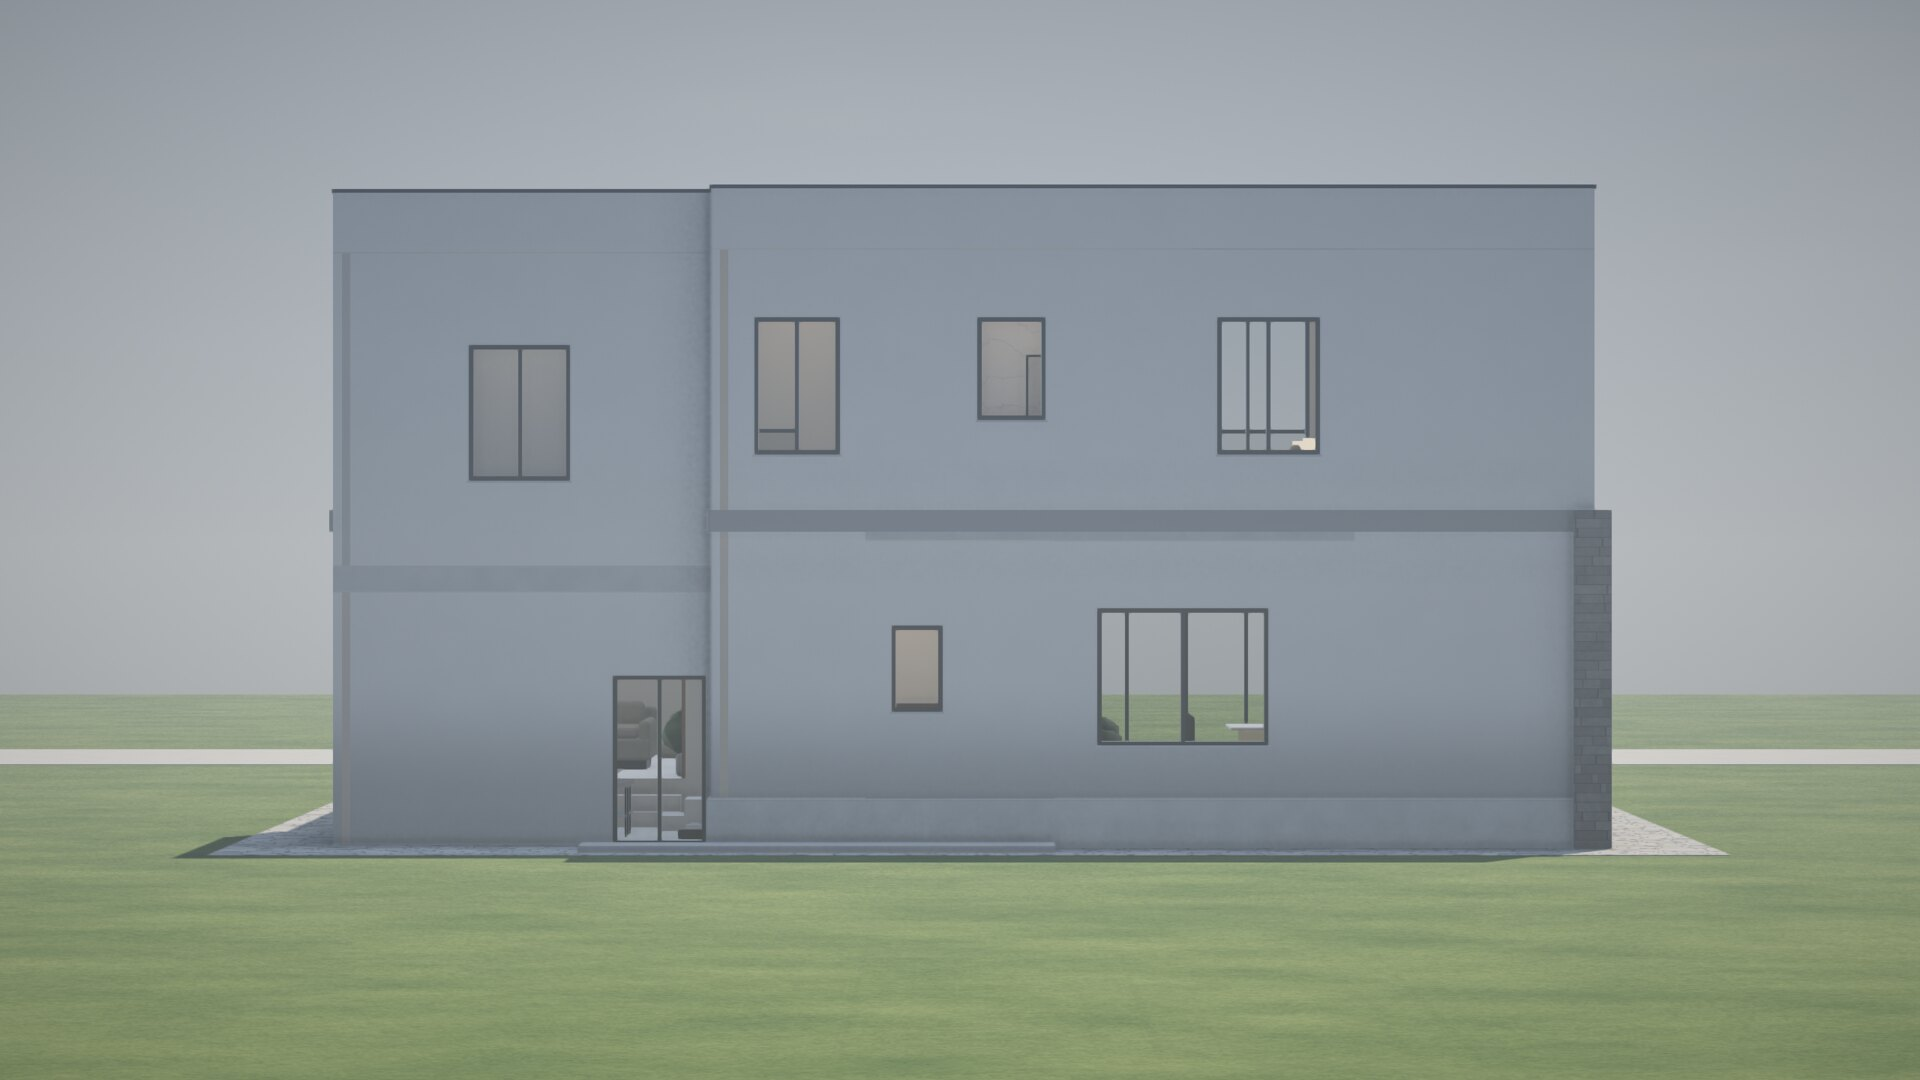
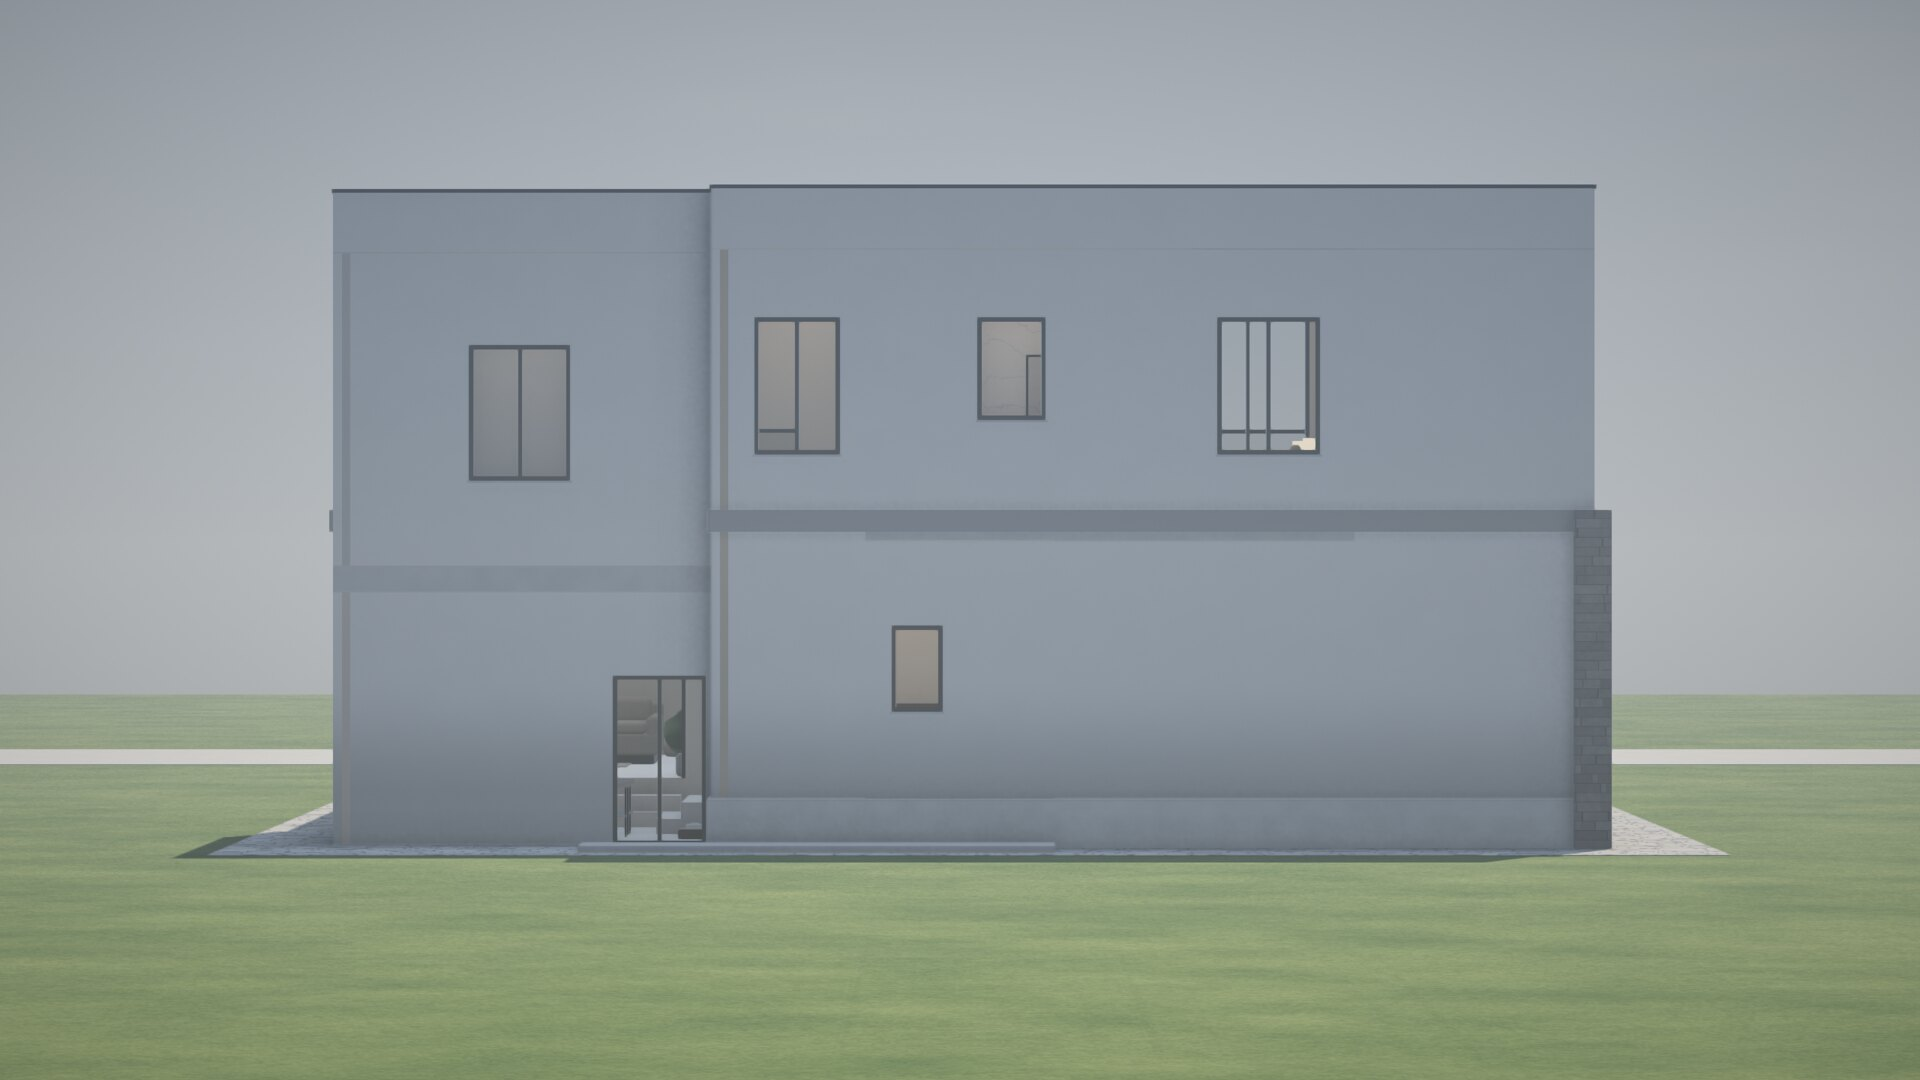
ห้องทานอาหาร: เอาหน้าต่างออก ผนังแผง Greige ทุกด้าน + ภาพแบบภาพถ่าย + งบใหม่
Claude-Session: https://claude.ai/code/session_013i3ffvjiePNLqy5JQb5Coc

Changed region(s): [[0.5625, 0.55, 0.6875, 0.7028], [0.3125, 0.7028, 0.3438, 0.7333]]

diff --git a/ai.html b/ai.html
@@ -15,8 +15,8 @@ details{margin-top:8px;font-size:13.5px;color:#555}details p{line-height:1.5}a.b
 <details><summary>ดูคำสั่ง</summary><p>Transform this 3D render into a photorealistic architectural interior photograph. KEEP EXACTLY the same camera angle, room layout, wall and opening positions, furniture types, positions and proportions, and the same materials and colors — do not add, remove or move any object, do not change the architecture. Only upgrade realism: physically accurate soft natural daylight with global illumination and soft shadows, realistic textures and micro-detail, subtle reflections on glossy surfaces, warm 3000K accent lighting where LED strips exist, natural fabric folds, slight depth of field, shot on a full-frame camera with a 24mm lens at eye level, high-end interior design magazine style, 4K. No people, no text, no watermark. View from the kitchen through a 2.5 m wide plaster arch with a double black metal arch trim (black reveal plus two thin black outline bands) into the stair hall and dining room; two steps up in marble-look porcelain; black linear pendant light over the kitchen island; greige panelled walls; matte black kitchen cabinets with white quartz worktops; indoor plant in a cement pot.</p></details></article><article><h2>5. ครัว</h2><a href="img/03_kitchen.jpg" download="03_kitchen.jpg"><img loading="lazy" src="img/03_kitchen.jpg" alt="ครัว"></a>
 <div class="b"><a class="btn" href="img/03_kitchen.jpg" download="03_kitchen.jpg">บันทึกภาพ</a><button class="btn" data-p="Transform this 3D render into a photorealistic architectural interior photograph. KEEP EXACTLY the same camera angle, room layout, wall and opening positions, furniture types, positions and proportions, and the same materials and colors — do not add, remove or move any object, do not change the architecture. Only upgrade realism: physically accurate soft natural daylight with global illumination and soft shadows, realistic textures and micro-detail, subtle reflections on glossy surfaces, warm 3000K accent lighting where LED strips exist, natural fabric folds, slight depth of field, shot on a full-frame camera with a 24mm lens at eye level, high-end interior design magazine style, 4K. No people, no text, no watermark. Modern kitchen: matte black lower and wall cabinets with warm under-cabinet LED, white quartz worktops, induction hob and stainless steel chimney hood, large white quartz island with waterfall ends and three bar stools with dark wood seats and black legs, black linear suspended LED pendant over the island, stainless steel fridge, light grey stone-look 60x120 floor tiles, warm white walls, black-framed glass sliding door to the garden.">ก๊อปคำสั่ง</button></div>
 <details><summary>ดูคำสั่ง</summary><p>Transform this 3D render into a photorealistic architectural interior photograph. KEEP EXACTLY the same camera angle, room layout, wall and opening positions, furniture types, positions and proportions, and the same materials and colors — do not add, remove or move any object, do not change the architecture. Only upgrade realism: physically accurate soft natural daylight with global illumination and soft shadows, realistic textures and micro-detail, subtle reflections on glossy surfaces, warm 3000K accent lighting where LED strips exist, natural fabric folds, slight depth of field, shot on a full-frame camera with a 24mm lens at eye level, high-end interior design magazine style, 4K. No people, no text, no watermark. Modern kitchen: matte black lower and wall cabinets with warm under-cabinet LED, white quartz worktops, induction hob and stainless steel chimney hood, large white quartz island with waterfall ends and three bar stools with dark wood seats and black legs, black linear suspended LED pendant over the island, stainless steel fridge, light grey stone-look 60x120 floor tiles, warm white walls, black-framed glass sliding door to the garden.</p></details></article><article><h2>6. ห้องทานอาหาร</h2><a href="img/04_dining.jpg" download="04_dining.jpg"><img loading="lazy" src="img/04_dining.jpg" alt="ห้องทานอาหาร"></a>
-<div class="b"><a class="btn" href="img/04_dining.jpg" download="04_dining.jpg">บันทึกภาพ</a><button class="btn" data-p="Transform this 3D render into a photorealistic architectural interior photograph. KEEP EXACTLY the same camera angle, room layout, wall and opening positions, furniture types, positions and proportions, and the same materials and colors — do not add, remove or move any object, do not change the architecture. Only upgrade realism: physically accurate soft natural daylight with global illumination and soft shadows, realistic textures and micro-detail, subtle reflections on glossy surfaces, warm 3000K accent lighting where LED strips exist, natural fabric folds, slight depth of field, shot on a full-frame camera with a 24mm lens at eye level, high-end interior design magazine style, 4K. No people, no text, no watermark. Dining room: white marble-top dining table for six with brass base and black upholstered chairs, brass linear pendant above, dark walnut vertical fluted feature wall, greige panelled walls, black aluminium window with garden view, marble-look porcelain floor, potted indoor plants.">ก๊อปคำสั่ง</button></div>
-<details><summary>ดูคำสั่ง</summary><p>Transform this 3D render into a photorealistic architectural interior photograph. KEEP EXACTLY the same camera angle, room layout, wall and opening positions, furniture types, positions and proportions, and the same materials and colors — do not add, remove or move any object, do not change the architecture. Only upgrade realism: physically accurate soft natural daylight with global illumination and soft shadows, realistic textures and micro-detail, subtle reflections on glossy surfaces, warm 3000K accent lighting where LED strips exist, natural fabric folds, slight depth of field, shot on a full-frame camera with a 24mm lens at eye level, high-end interior design magazine style, 4K. No people, no text, no watermark. Dining room: white marble-top dining table for six with brass base and black upholstered chairs, brass linear pendant above, dark walnut vertical fluted feature wall, greige panelled walls, black aluminium window with garden view, marble-look porcelain floor, potted indoor plants.</p></details></article><article><h2>7. โถงบันได</h2><a href="img/11_stair_hall.jpg" download="11_stair_hall.jpg"><img loading="lazy" src="img/11_stair_hall.jpg" alt="โถงบันได"></a>
+<div class="b"><a class="btn" href="img/04_dining.jpg" download="04_dining.jpg">บันทึกภาพ</a><button class="btn" data-p="Transform this 3D render into a photorealistic architectural interior photograph. KEEP EXACTLY the same camera angle, room layout, wall and opening positions, furniture types, positions and proportions, and the same materials and colors — do not add, remove or move any object, do not change the architecture. Only upgrade realism: physically accurate soft natural daylight with global illumination and soft shadows, realistic textures and micro-detail, subtle reflections on glossy surfaces, warm 3000K accent lighting where LED strips exist, natural fabric folds, slight depth of field, shot on a full-frame camera with a 24mm lens at eye level, high-end interior design magazine style, 4K. No people, no text, no watermark. Dining room: white marble-top dining table for six with brass base and black upholstered chairs, brass linear pendant above, light greige panelled walls on all sides (no window on these walls), dark walnut sideboard with a framed art piece, marble-look porcelain floor, potted indoor plants.">ก๊อปคำสั่ง</button></div>
+<details><summary>ดูคำสั่ง</summary><p>Transform this 3D render into a photorealistic architectural interior photograph. KEEP EXACTLY the same camera angle, room layout, wall and opening positions, furniture types, positions and proportions, and the same materials and colors — do not add, remove or move any object, do not change the architecture. Only upgrade realism: physically accurate soft natural daylight with global illumination and soft shadows, realistic textures and micro-detail, subtle reflections on glossy surfaces, warm 3000K accent lighting where LED strips exist, natural fabric folds, slight depth of field, shot on a full-frame camera with a 24mm lens at eye level, high-end interior design magazine style, 4K. No people, no text, no watermark. Dining room: white marble-top dining table for six with brass base and black upholstered chairs, brass linear pendant above, light greige panelled walls on all sides (no window on these walls), dark walnut sideboard with a framed art piece, marble-look porcelain floor, potted indoor plants.</p></details></article><article><h2>7. โถงบันได</h2><a href="img/11_stair_hall.jpg" download="11_stair_hall.jpg"><img loading="lazy" src="img/11_stair_hall.jpg" alt="โถงบันได"></a>
 <div class="b"><a class="btn" href="img/11_stair_hall.jpg" download="11_stair_hall.jpg">บันทึกภาพ</a><button class="btn" data-p="Transform this 3D render into a photorealistic architectural interior photograph. KEEP EXACTLY the same camera angle, room layout, wall and opening positions, furniture types, positions and proportions, and the same materials and colors — do not add, remove or move any object, do not change the architecture. Only upgrade realism: physically accurate soft natural daylight with global illumination and soft shadows, realistic textures and micro-detail, subtle reflections on glossy surfaces, warm 3000K accent lighting where LED strips exist, natural fabric folds, slight depth of field, shot on a full-frame camera with a 24mm lens at eye level, high-end interior design magazine style, 4K. No people, no text, no watermark. Stair hall: floating dark walnut staircase with closed risers and black metal balustrade, black baby safety gate at the bottom, greige panelled walls with thin black door frames, view through the black-trimmed plaster arch into the kitchen, marble-look floor, indoor plant in the corner.">ก๊อปคำสั่ง</button></div>
 <details><summary>ดูคำสั่ง</summary><p>Transform this 3D render into a photorealistic architectural interior photograph. KEEP EXACTLY the same camera angle, room layout, wall and opening positions, furniture types, positions and proportions, and the same materials and colors — do not add, remove or move any object, do not change the architecture. Only upgrade realism: physically accurate soft natural daylight with global illumination and soft shadows, realistic textures and micro-detail, subtle reflections on glossy surfaces, warm 3000K accent lighting where LED strips exist, natural fabric folds, slight depth of field, shot on a full-frame camera with a 24mm lens at eye level, high-end interior design magazine style, 4K. No people, no text, no watermark. Stair hall: floating dark walnut staircase with closed risers and black metal balustrade, black baby safety gate at the bottom, greige panelled walls with thin black door frames, view through the black-trimmed plaster arch into the kitchen, marble-look floor, indoor plant in the corner.</p></details></article><article><h2>8. ห้องนอนใหญ่</h2><a href="img/05_master_bedroom.jpg" download="05_master_bedroom.jpg"><img loading="lazy" src="img/05_master_bedroom.jpg" alt="ห้องนอนใหญ่"></a>
 <div class="b"><a class="btn" href="img/05_master_bedroom.jpg" download="05_master_bedroom.jpg">บันทึกภาพ</a><button class="btn" data-p="Transform this 3D render into a photorealistic architectural interior photograph. KEEP EXACTLY the same camera angle, room layout, wall and opening positions, furniture types, positions and proportions, and the same materials and colors — do not add, remove or move any object, do not change the architecture. Only upgrade realism: physically accurate soft natural daylight with global illumination and soft shadows, realistic textures and micro-detail, subtle reflections on glossy surfaces, warm 3000K accent lighting where LED strips exist, natural fabric folds, slight depth of field, shot on a full-frame camera with a 24mm lens at eye level, high-end interior design magazine style, 4K. No people, no text, no watermark. Master bedroom: king bed with beige upholstered headboard and white linen bedding with a caramel throw, dark walnut vertical fluted headboard wall, walnut nightstands with table lamps, black-framed glass-door wardrobe with warm interior lighting showing hanging clothes and storage boxes, walnut-look SPC plank floor, light grey area rug, dresser and cream pouf, cove lighting in the ceiling.">ก๊อปคำสั่ง</button></div>

diff --git a/studio.html b/studio.html
@@ -168,7 +168,7 @@ Geo.prototype.cyl=function(cx,y0,cz,r,y1,m,zn,col){const N=16,a=this.a;for(let i
 // ops: {a0,a1,y0,y1,k:'win'|'slide'|'open',p:panes,tr:transom}
 let OPN=0,OPS={},OPICK=[],WN=0,WALLS={},WPICK=[],WALLREG=false;
 const FINS=['สีทาเรียบ','หินตกแต่ง','อิฐโชว์','ผนังไม้','กระเบื้อง 30×60','ปูนเปลือย','วอลเปเปอร์','หินอ่อน','ผนังแบ่งแผง'];
-function featureFin(axis,c,a0,z){z=z%100;if(z===1&&axis==='x'&&Math.abs(c-9.6)<.01)return 7;if(z===9&&axis==='z'&&Math.abs(c-12)<.01)return 3;if(z===5&&axis==='x'&&Math.abs(c-.1)<.01&&a0>=8.5)return 3;return null;}
+function featureFin(axis,c,a0,z){z=z%100;if(z===1&&axis==='x'&&Math.abs(c-9.6)<.01)return 7;if(z===9&&axis==='z'&&Math.abs(c-12)<.01)return 3;return null;}
 function zoneFin(z){z=z%100;return z===0?(S.extFin||0):((S.Z[z]&&S.Z[z].fin)||0);}
 function wall(axis,c,a0,a1,y0,y1,t,zn,zp,ops){
   const wid=WALLREG?WN++:null;
@@ -240,7 +240,7 @@ function buildHouse(){
   wall('z',4.6,0,1.2,0,7,T,0,3);
   wall('x',.1,4.5,6.3,0,7,T,0,3,[W(5.0,6.0,4.6,6.2,'win',2)]);
   wall('x',.1,6.3,8.5,0,3.75,T,0,4,[W(6.6,7.2,1.6,2.6,'win',1)]);
-  wall('x',.1,8.5,14.8,0,3.75,T,0,5,[W(9.0,11.0,1.2,2.8,'win',2)]);
+  wall('x',.1,8.5,14.8,0,3.75,T,0,5);
   wall('x',.1,6.3,10.1,3.75,7,T,0,11,[W(7.6,8.4,5.0,6.2,'win',1)]);
   wall('x',.1,10.1,12,3.75,7,T,0,9,[W(10.4,11.6,4.6,6.2,'win',2)]);
   wall('x',.1,12,14.8,3.75,7,T,0,5);
